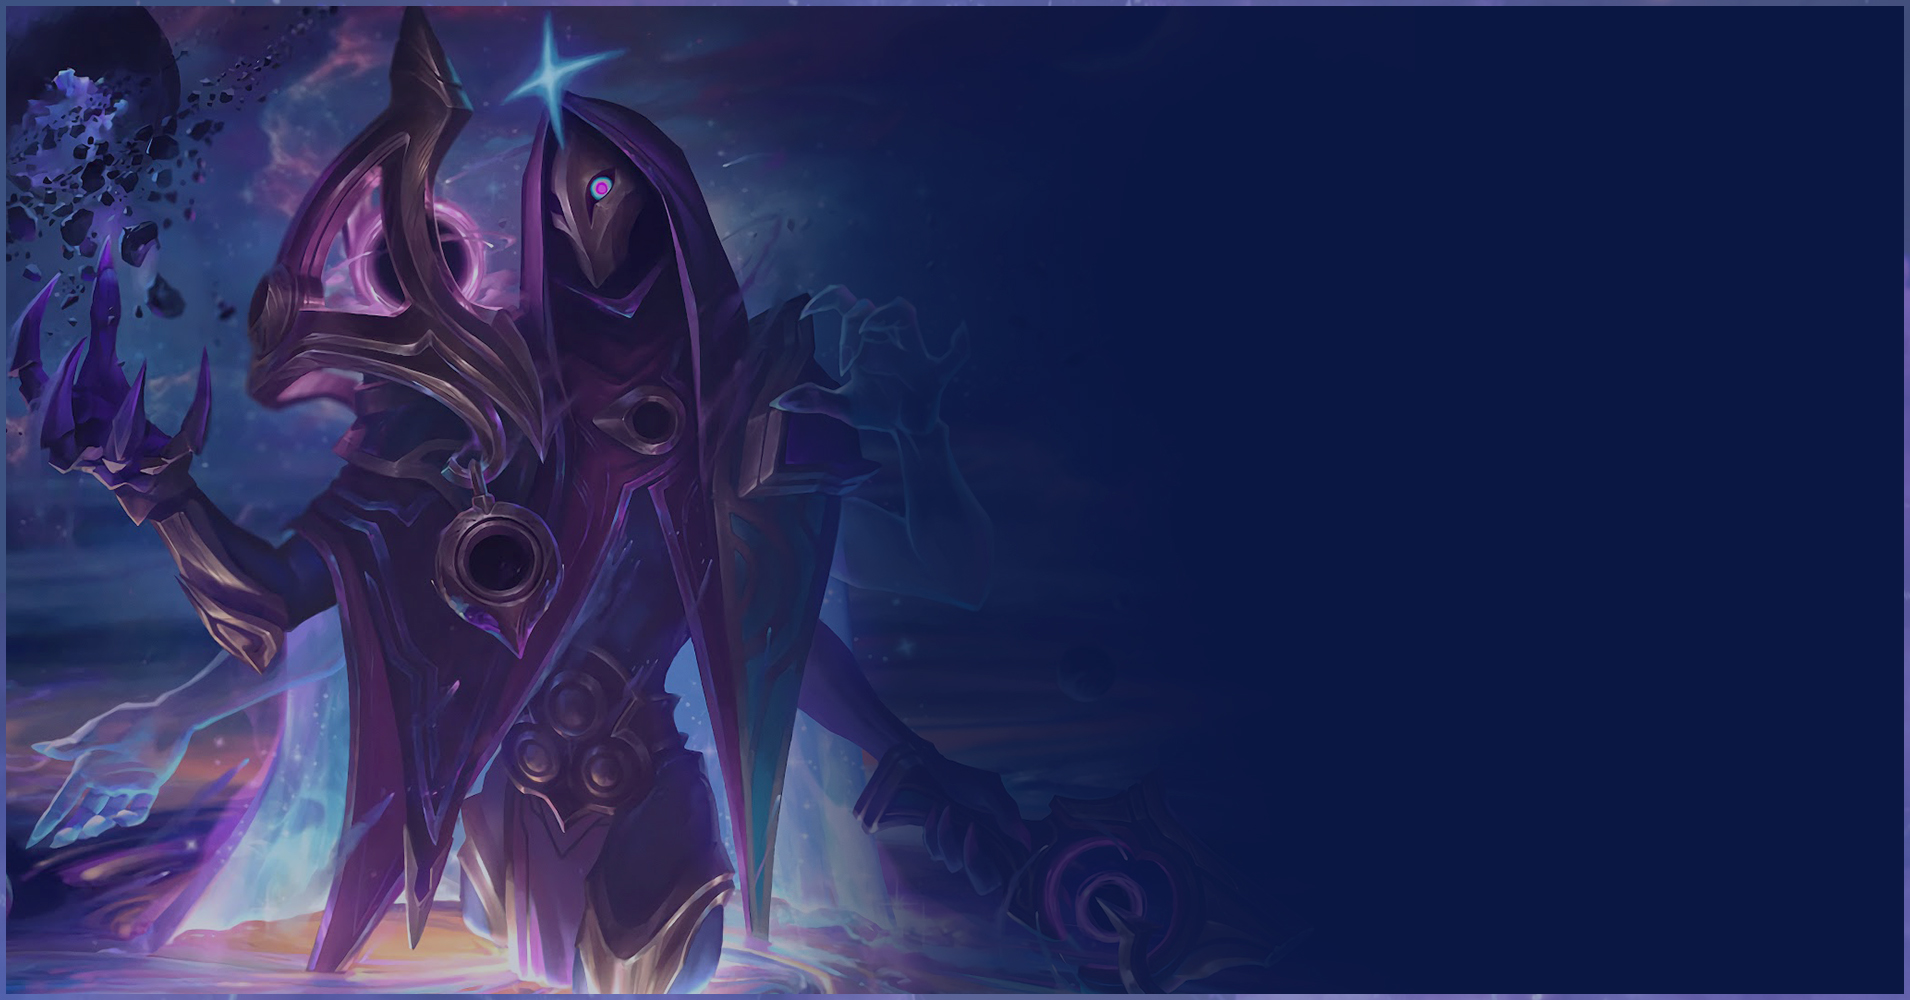
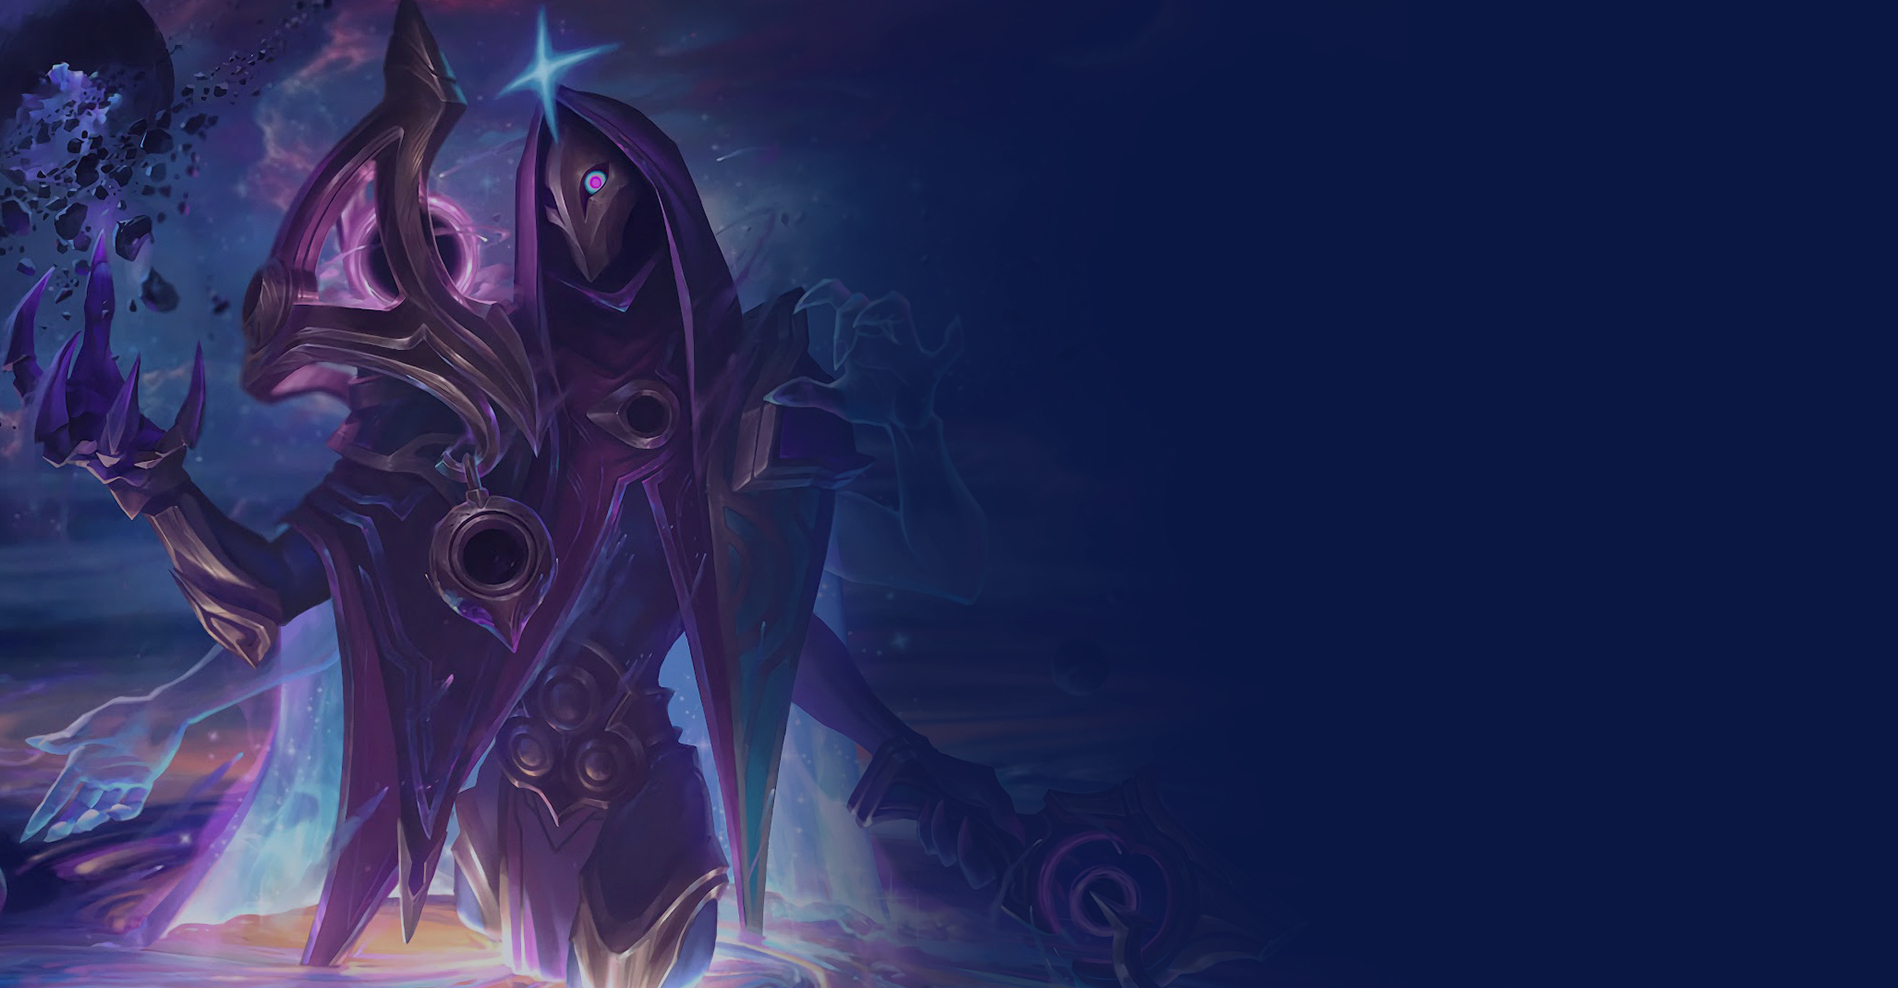
Adaugă coverele pe ferestre suficient de mari

diff --git a/index.html b/index.html
@@ -74,102 +74,110 @@
     </header>
     <main id="main">
       <section id="campionat-cs">
-        <div class="text">
-          <header>
-            <h2>Campionatul de Counter-Strike</h2>
-            <span>9 aprilie</span>
-          </header>
-          <p>
-            Ești pasionat de Counter Strike? Vino să ne arăți ce țintă ai la
-            Campionatul de CS:GO!
-          </p>
-          <div class="text-center">
-            <a
-              class="btn btn-primary"
-              href="https://forms.gle/Uvz95nZE9CRNx5Qh6"
-              target="_blank"
-              rel="noopener noreferrer"
-              >Înscrie-te acum!</a
-            >
+        <div class="cover-overlay">
+          <div class="text">
+            <header>
+              <h2>Campionatul de Counter-Strike</h2>
+              <span>9 aprilie</span>
+            </header>
+            <p>
+              Ești pasionat de Counter Strike? Vino să ne arăți ce țintă ai la
+              Campionatul de CS:GO!
+            </p>
+            <div class="text-center">
+              <a
+                class="btn btn-primary"
+                href="https://forms.gle/Uvz95nZE9CRNx5Qh6"
+                target="_blank"
+                rel="noopener noreferrer"
+                >Înscrie-te acum!</a
+              >
+            </div>
           </div>
         </div>
       </section>
       <section id="campionat-lol">
-        <div class="text">
-          <header>
-            <h2>Campionatul de League of Legends</h2>
-            <span>10 aprilie</span>
-          </header>
-          <p>
-            Alegeți campionul și pregătește-te de o luptă grea la Campionatul de
-            League of Legends!
-          </p>
-          <div class="text-center">
-            <a
-              class="btn btn-primary"
-              href="https://docs.google.com/forms/d/1e3HPzr_jPa3gjuUMWNIbEyKw3dijylJ0bnZ7aA3uCCo/viewform"
-              target="_blank"
-              rel="noopener noreferrer"
-              >Înscrie-te la 5v5!</a
-            >
-            <a
-              class="btn btn-primary"
-              href="https://docs.google.com/forms/d/e/1FAIpQLSdrI3UIgZ26qjcfEcEE6-hIvy5rq0LVJoArTxw4RKjDv3hzzg/viewform"
-              target="_blank"
-              rel="noopener noreferrer"
-              >Înscrie-te la 1v1!</a
-            >
-          </div>
-          <div class="text-center mt-3">
-            <a
-              class="btn btn-info"
-              href="https://drive.google.com/file/d/13M_q04jWytvLM3k-s9HPm_FX1P5JX1H0/view?usp=sharing"
-              target="_blank"
-              rel="noopener noreferrer"
-              >Regulament</a
-            >
+        <div class="cover-overlay">
+          <div class="text">
+            <header>
+              <h2>Campionatul de League of Legends</h2>
+              <span>10 aprilie</span>
+            </header>
+            <p>
+              Alegeți campionul și pregătește-te de o luptă grea la Campionatul
+              de League of Legends!
+            </p>
+            <div class="text-center">
+              <a
+                class="btn btn-primary"
+                href="https://docs.google.com/forms/d/1e3HPzr_jPa3gjuUMWNIbEyKw3dijylJ0bnZ7aA3uCCo/viewform"
+                target="_blank"
+                rel="noopener noreferrer"
+                >Înscrie-te la 5v5!</a
+              >
+              <a
+                class="btn btn-primary"
+                href="https://docs.google.com/forms/d/e/1FAIpQLSdrI3UIgZ26qjcfEcEE6-hIvy5rq0LVJoArTxw4RKjDv3hzzg/viewform"
+                target="_blank"
+                rel="noopener noreferrer"
+                >Înscrie-te la 1v1!</a
+              >
+            </div>
+            <div class="text-center mt-3">
+              <a
+                class="btn btn-info"
+                href="https://drive.google.com/file/d/13M_q04jWytvLM3k-s9HPm_FX1P5JX1H0/view?usp=sharing"
+                target="_blank"
+                rel="noopener noreferrer"
+                >Regulament</a
+              >
+            </div>
           </div>
         </div>
       </section>
       <section id="seara-de-film">
-        <div class="text">
-          <header>
-            <h2>Seara de Film</h2>
-            <span>11 aprilie</span>
-          </header>
-          <p>
-            Seara de Film aduce laolaltă cinefilii ca să ne uităm împreună la
-            <em>La Casa de Papel</em>!
-          </p>
-          <div class="text-center">
-            <a
-              class="btn btn-primary"
-              href="https://www.facebook.com/events/1112466242431050"
-              target="_blank"
-              rel="noopener noreferrer"
-              >Vizitează pagina evenimentului</a
-            >
+        <div class="cover-overlay">
+          <div class="text">
+            <header>
+              <h2>Seara de Film</h2>
+              <span>11 aprilie</span>
+            </header>
+            <p>
+              Seara de Film aduce laolaltă cinefilii ca să ne uităm împreună la
+              <em>La Casa de Papel</em>!
+            </p>
+            <div class="text-center">
+              <a
+                class="btn btn-primary"
+                href="https://www.facebook.com/events/1112466242431050"
+                target="_blank"
+                rel="noopener noreferrer"
+                >Vizitează pagina evenimentului</a
+              >
+            </div>
           </div>
         </div>
       </section>
       <section id="seara-de-jocuri">
-        <div class="text">
-          <header>
-            <h2>Seara de Jocuri</h2>
-            <span>12 aprilie</span>
-          </header>
-          <p>
-            Seara de Jocuri aduce atmosfera jocurilor de masă cu prietenii în
-            mediul virtual!
-          </p>
-          <div class="text-center">
-            <a
-              class="btn btn-primary"
-              href="https://www.facebook.com/events/665300680937491/"
-              target="_blank"
-              rel="noopener noreferrer"
-              >Vizitează pagina evenimentului!</a
-            >
+        <div class="cover-overlay">
+          <div class="text">
+            <header>
+              <h2>Seara de Jocuri</h2>
+              <span>12 aprilie</span>
+            </header>
+            <p>
+              Seara de Jocuri aduce atmosfera jocurilor de masă cu prietenii în
+              mediul virtual!
+            </p>
+            <div class="text-center">
+              <a
+                class="btn btn-primary"
+                href="https://www.facebook.com/events/665300680937491/"
+                target="_blank"
+                rel="noopener noreferrer"
+                >Vizitează pagina evenimentului!</a
+              >
+            </div>
           </div>
         </div>
       </section>

diff --git a/css/home.css b/css/home.css
@@ -2,10 +2,59 @@ html {
   scroll-behavior: smooth;
 }
 
-div.text {
-  margin: 2em 1em;
+.cover-overlay {
+  padding: 2em 1em;
 }
 
 footer {
   text-align: center;
+}
+
+@media (min-width: 500px) {
+  .jumbotron {
+    margin-bottom: 0;
+  }
+
+  main > section {
+    position: relative;
+
+    color: white;
+
+    background-repeat: no-repeat;
+    background-size: 100%;
+  }
+
+  .cover-overlay {
+    background-color: rgba(32, 32, 32, 0.5);
+
+    height: 50vw;
+    padding-top: 10vw;
+  }
+
+  .text {
+    max-width: 45em;
+    margin: auto;
+  }
+
+  .text div {
+    margin-top: 10vw;
+  }
+
+  #campionat-cs {
+    background-color: #01000f;
+    background-image: url("/img/campionat_de_cs_go.jpg");
+  }
+
+  #campionat-lol {
+    background-color: #0a1743;
+    background-image: url("/img/campionat_de_lol.jpg");
+  }
+
+  #seara-de-film {
+    background-image: url("/img/seara_de_film.jpg");
+  }
+
+  #seara-de-jocuri {
+    background-image: url("/img/seara_de_jocuri.jpg");
+  }
 }
